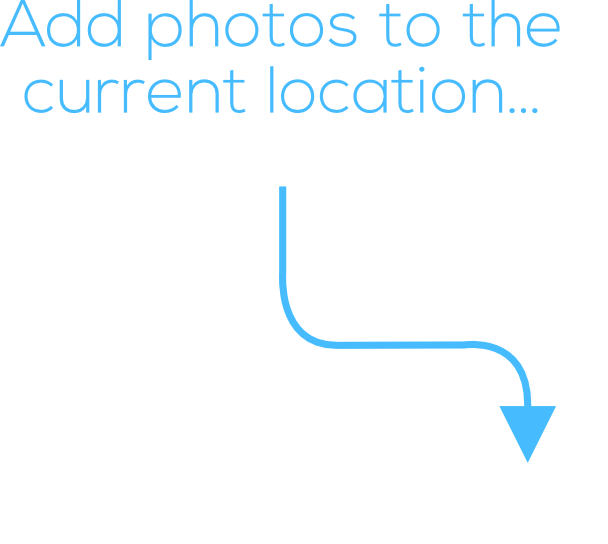
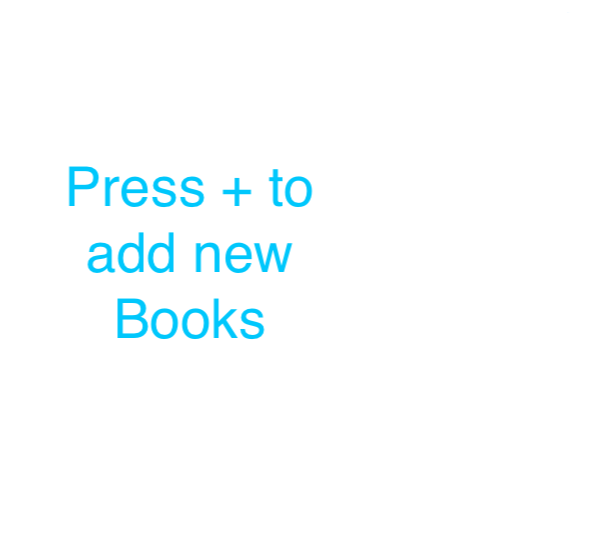
fix no items image

diff --git a/src/components/NoItems.js b/src/components/NoItems.js
@@ -1,21 +1,28 @@
 /* global require */
 
 import React from 'react';
-import { View } from 'react-native';
+import { View, Pressable, Image } from 'react-native';
+import { useNavigation } from '@react-navigation/native';
 import { useTheme } from '../ThemeManager';
-import BackgroundImage from './BackgroundImage';
 
 export default function NoItems({ items }) {
   const {
     theme: { styles },
   } = useTheme();
+  const navigation = useNavigation();
 
   if (items === null) {
     return <></>;
   }
   return (
     <View style={styles.emptyListContainer}>
-      <BackgroundImage source={require('../../assets/images/NoItems.png')} />
+      <Pressable
+        onPress={() => {
+          navigation.navigate('Scanner');
+        }}
+        style={styles.navHeaderLink}>
+        <Image source={require('../../assets/images/NoItems.png')} />
+      </Pressable>
     </View>
   );
 }
